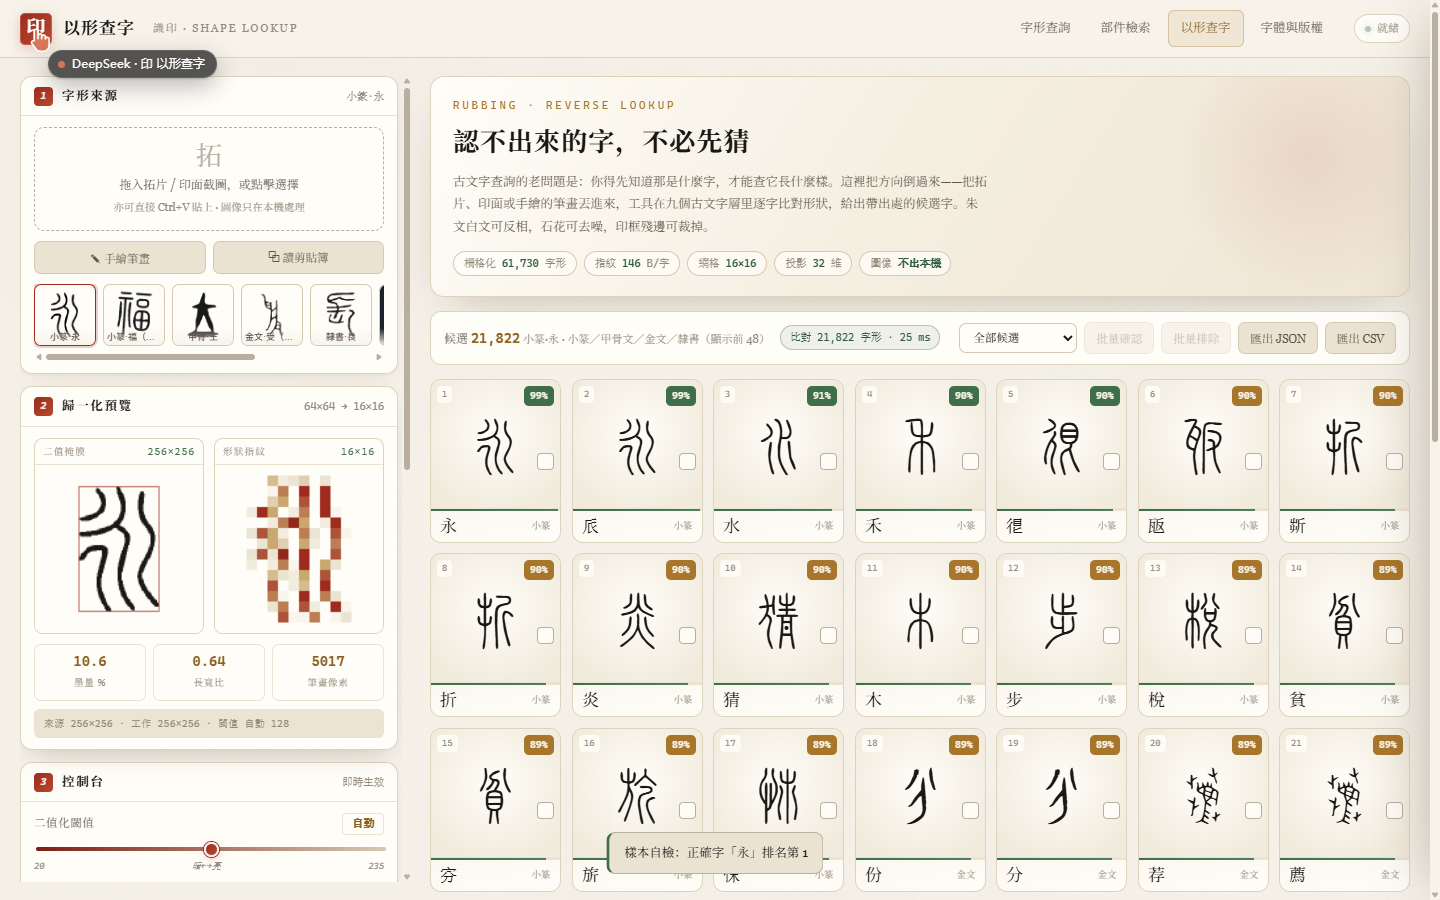
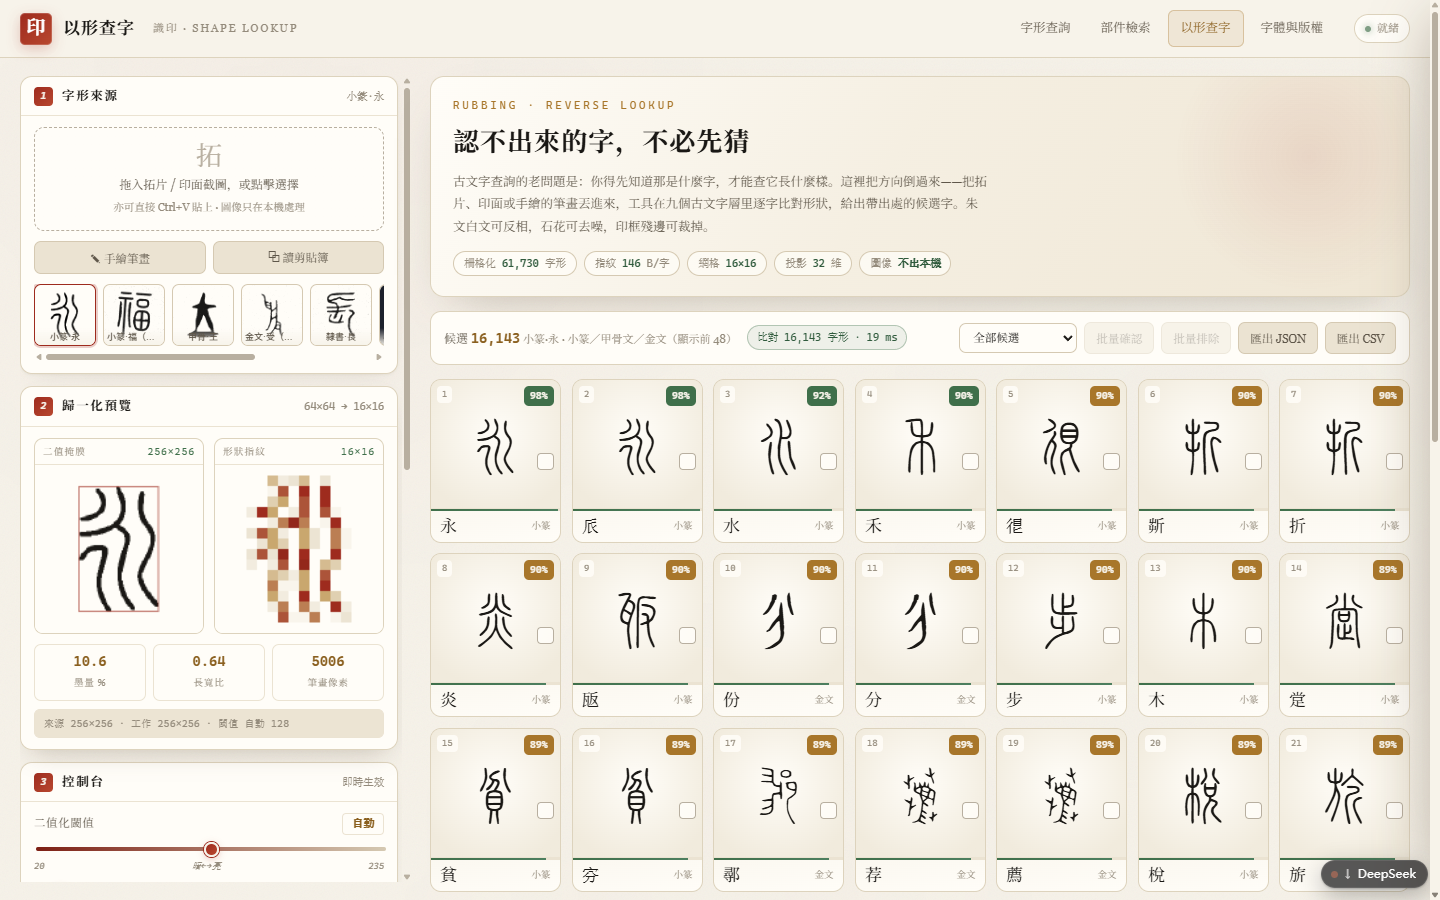
以形查字：去噪恢復開運算並加墨量守衛，低分辨率細筆不再被削斷；補文獻與截圖

diff --git a/shape.js b/shape.js
@@ -427,7 +427,17 @@
   function processCore(o) {
     var wc = toWork(sourceImg, o.up || 1);
     var b = binarize(wc, o), m = b.m, W = b.W, H = b.H, i, removed = 0;
-    if (o.den > 0) { var ds = despeckle(m, W, H, o.den); m = ds.m; removed = ds.removed; }
+    if (o.den > 0) {
+      /* 先去孤立斑点（按面积删，细笔不受损），再试 3x3 开运算磨掉反锯齿灰边。
+         开运算会整体削细 1px，低分辨率图的细笔可能被削断——所以做墨量守卫：
+         若开运算吃掉超过 45% 的墨，判定为「削过头」，保留未开运算的掩膜。 */
+      var ds = despeckle(m, W, H, o.den); m = ds.m; removed = ds.removed;
+      var before = 0; for (i = 0; i < m.length; i++) if (m[i]) before++;
+      var op = m;
+      for (i = 0; i < o.den; i++) { op = morph(op, W, H, false); op = morph(op, W, H, true); }
+      var after = 0; for (i = 0; i < op.length; i++) if (op[i]) after++;
+      if (before && after >= before * 0.55) m = op;
+    }
     if (o.wt > 0) for (i = 0; i < o.wt; i++) m = morph(m, W, H, true);
     else if (o.wt < 0) for (i = 0; i < -o.wt; i++) m = morph(m, W, H, false);
     var mc = maskToCanvas(m, W, H);

diff --git a/docs/feasibility.md b/docs/feasibility.md
@@ -277,13 +277,24 @@ SVG 层合计 **41,158 个层内字数**、**79,516 个字形实例**、**39.7 M
 | 样本 | 正确字 | 名次 | 相似度 |
 | --- | --- | --- | --- |
 | 小篆·永 | 永 | 1 | 98% |
-| 小篆·福（磨蝕） | 福 | 1 | 90% |
+| 小篆·福（磨蝕） | 福 | 1 | 91% |
 | 甲骨·王 | 王 | 1 | 99% |
 | 金文·受（旋轉） | 受 | 1 | 95% |
 | 隸書·長 | 長 | 1 | 98% |
-| 小篆·樂（朱文） | 樂 | 1 | 98% |
+| 小篆·樂（朱文） | 樂 | 1 | 96% |
 | 甲骨·日（斷裂） | 日 | 1 | 96% |
 | 金文·央 | 央 | 1 | 96% |
+
+**低分辨率输入（书影裁切、缩略图）怎么救。** 实测最常见的失败不是「认错字」而是「根本提不出墨」：一张 34×34 的裁切图，二值化后笔画只剩断点，再被默认去噪一腐蚀就整片消失。四步解决：
+
+1. **先放大再二值化**。长边小于 240px 的图先用高质量插值放大（最多 8 倍），让反锯齿灰边变成可利用的亚像素信息；大于 400px 才缩。放大用的画布底色从黑改白——透明底 PNG 抠出来的字若是黑字，填黑会把它吃掉。
+2. **自适应阈值**取代固定 128。取灰度直方图，背景峰取众数（紧裁切的单字图边框不可靠，不能用边框估计），墨峰取背景另一侧的次峰，阈值落在两峰中点；对比度过低（跨度 < 96）时先按 1%/99% 分位做拉伸。用户拖阈值滑杆即转为手动，勾选框可切回自动。
+3. **去噪改成按连通域面积删斑点**，而不是统一做 3×3 开运算——开运算会顺带把 1px 细笔整条削掉。开运算改为「面积清理之后的补充一步」，且带墨量守卫：若开运算吃掉超过 45% 的墨，判定削过头，保留未开运算的掩膜。
+4. **自动补救要有节制**。只有当墨量落入硬失败区（< 2% 或 > 60%）才尝试备选方案（自动反相、跳过去噪、加大放大），正常出墨时严格按用户参数走——早期版本只要质量分略低就自动改参数，反而把正确的样本改错。
+
+「歸一化預覽」卡下方常驻一行诊断（`來源 34×34 · 工作 240×240（放大 7.1×） · 閾值 自動 69 · 對比拉伸 · 清斑點 −12`），图幅小于 32px 时额外提示「建議 ≥48×48」，让用户知道为什么没查到、该补什么。
+
+实测：34×34 的小篆「永」放大 7.1 倍后查得 永 94% 排名 1；22×22 的「受」90%、「日」95% 排名 1；22×22 的「永」降到排名 2（88%）——22px 对篆书已是极限，工具会如实给出排名而不是假装确定。
 
 **规模与性能**：九层 61,730 字形 / 12.1 MB，按层懒加载（默认三层 3.0 MB）。比对在 `Uint8Array` 上直接算，不解码成对象：21,822 字形 **23 ms**。图片全程留在本机，不上传。
 

diff --git a/README.md b/README.md
@@ -34,6 +34,8 @@
 
 另有**形状指纹索引**：九个古文字层共 61,730 个字形，每字 146 字节（16×16 密度网格 + 双向投影 + 长宽比 + 墨量），合计 12.1 MB，按勾选的层懒加载——默认三层只拉 3.0 MB。比对全在浏览器里做，21,822 字形约 23 ms，**上传的图片不出本机**。
 
+图幅很小的书影裁切也能用：长边不足 240px 会先自动放大（至多 8 倍），阈值按图像灰度分布自适应，对比度低时自动拉伸，去噪只删孤点、不削细笔。界面会显示实际用了多少倍放大、什么阈值，以及是否自动做过补救。34×34 的小字截图实测仍能把正确的字排到第一。
+
 ## 用法
 
 直接用浏览器打开 `index.html` 即可，不需要服务器。也可以整个目录拷到 U 盘离线用。

diff --git a/docs/readme-public.md b/docs/readme-public.md
@@ -34,6 +34,8 @@
 
 另有**形状指纹索引**：九个古文字层共 61,730 个字形，每字 146 字节（16×16 密度网格 + 双向投影 + 长宽比 + 墨量），合计 12.1 MB，按勾选的层懒加载——默认三层只拉 3.0 MB。比对全在浏览器里做，21,822 字形约 23 ms，**上传的图片不出本机**。
 
+图幅很小的书影裁切也能用：长边不足 240px 会先自动放大（至多 8 倍），阈值按图像灰度分布自适应，对比度低时自动拉伸，去噪只删孤点、不削细笔。界面会显示实际用了多少倍放大、什么阈值，以及是否自动做过补救。34×34 的小字截图实测仍能把正确的字排到第一。
+
 ## 用法
 
 直接用浏览器打开 `index.html` 即可，不需要服务器。也可以整个目录拷到 U 盘离线用。
